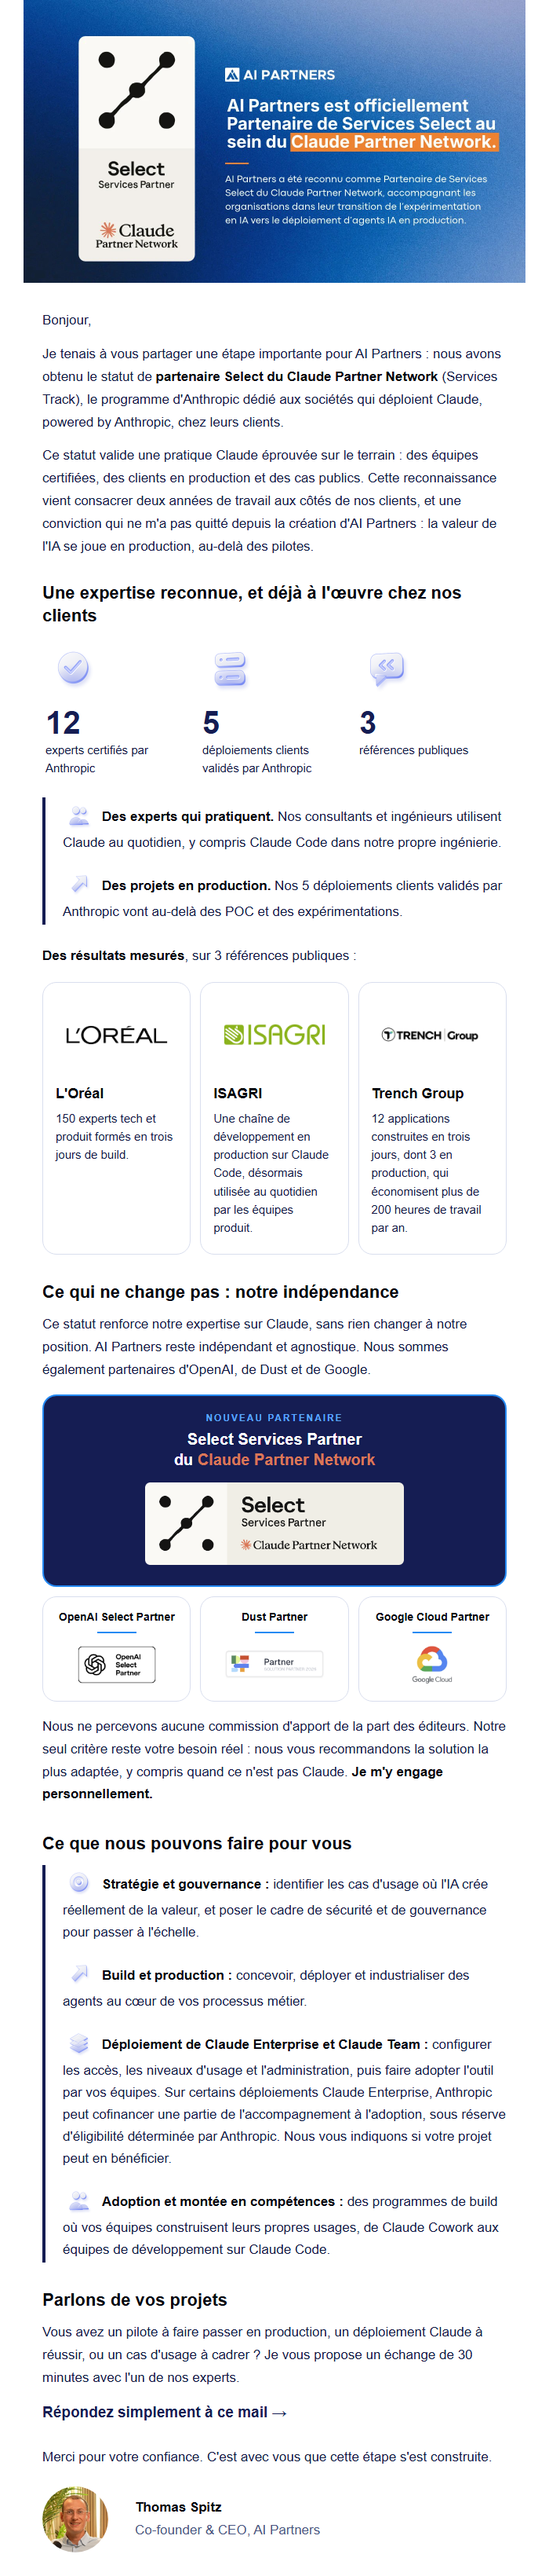
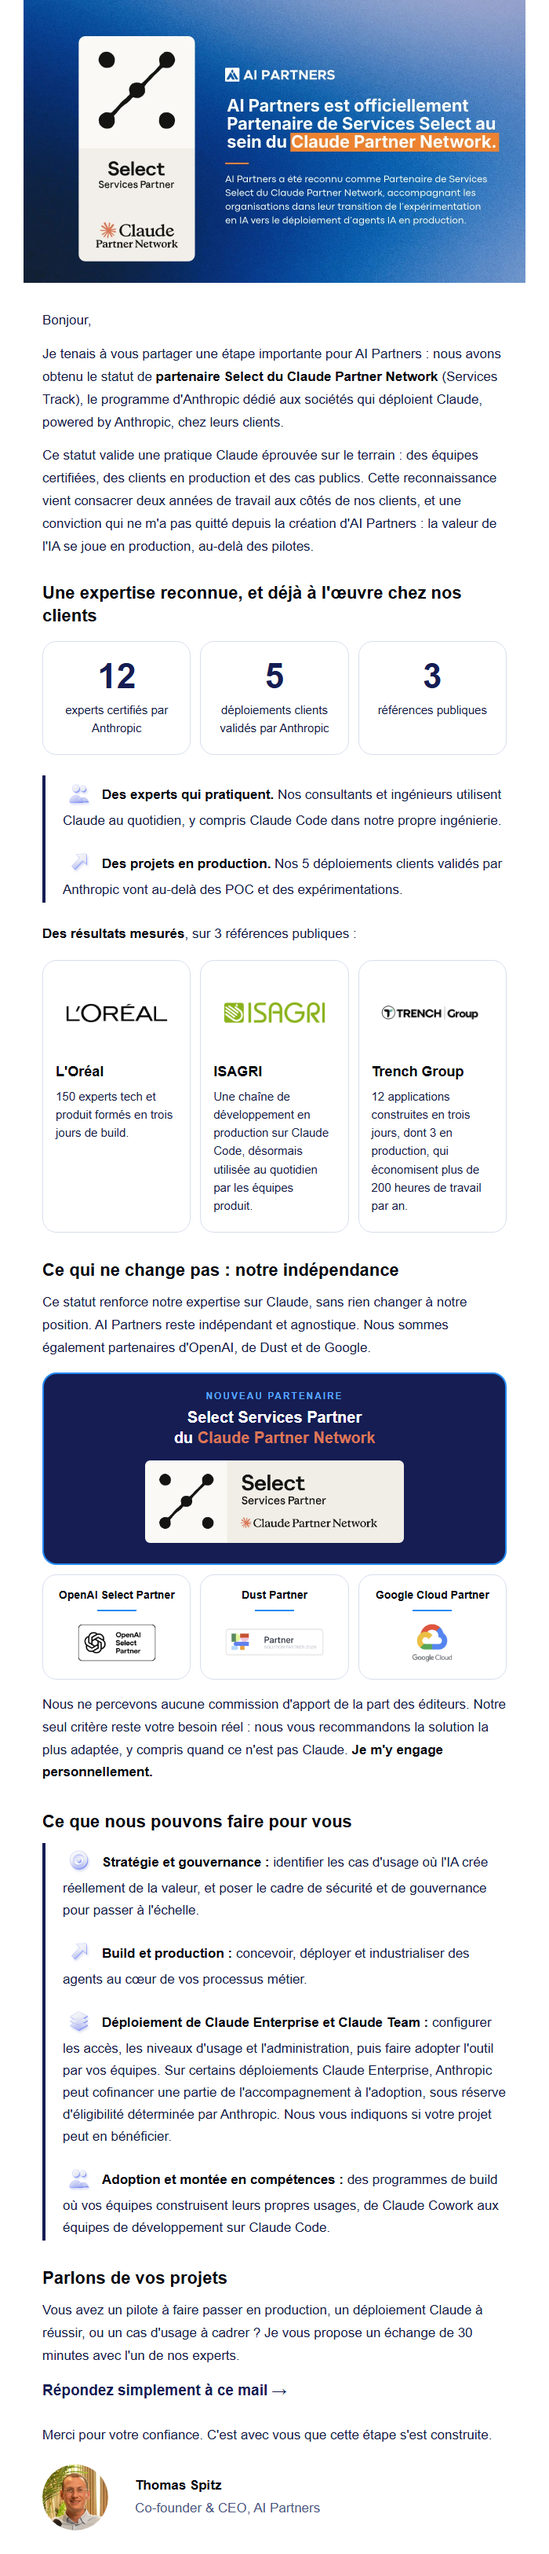
Mail d'annonce v2 : les 3 chiffres dans 3 encadrés, sans icône (retour d'Arthur 16/11)

Changed region(s): [[0.06, 0.0621, 0.93, 0.9942], [0.39, 0.0311, 0.9, 0.0932]]

diff --git a/PRESENTATIONS/2026-11_newsletter_anthropic_select/v2/email_hubspot_module.html b/PRESENTATIONS/2026-11_newsletter_anthropic_select/v2/email_hubspot_module.html
@@ -6,7 +6,7 @@
 <tr><td style="padding:0 4px 14px 4px;font-family:Helvetica, Arial, sans-serif;font-size:17px;line-height:1.7;color:#141B45">Je tenais à vous partager une étape importante pour AI Partners&nbsp;: nous avons obtenu le statut de <strong style="color:#05070F">partenaire Select du Claude Partner Network</strong> (Services Track), le programme d'Anthropic dédié aux sociétés qui déploient Claude, powered by Anthropic, chez leurs clients.</td></tr>
 <tr><td style="padding:0 4px 30px 4px;font-family:Helvetica, Arial, sans-serif;font-size:17px;line-height:1.7;color:#141B45">Ce statut valide une pratique Claude éprouvée sur le terrain&nbsp;: des équipes certifiées, des clients en production et des cas publics. Cette reconnaissance vient consacrer deux années de travail aux côtés de nos clients, et une conviction qui ne m'a pas quitté depuis la création d'AI Partners&nbsp;: la valeur de l'IA se joue en production, au-delà des pilotes.</td></tr>
 <tr><td style="padding:0px 4px 12px 4px"><h2 style="margin:0;font-family:Helvetica, Arial, sans-serif;font-size:22px;line-height:1.3;font-weight:bold;color:#05070F">Une expertise reconnue, et déjà à l'œuvre chez nos clients</h2></td></tr>
-<tr><td style="padding:6px 0 26px 0"><table role="presentation" width="100%" cellpadding="0" cellspacing="0"><tr><td valign="top" width="33%" style="width:33%;padding:0 8px"><img src="https://arthurw31.github.io/ai-partners-podcast-content-machine/newsletters/anthropic-select/v2/verre_badge-check_72.png" width="72" height="72" alt="" style="display:block;border:0;width:72px;height:72px"><div style="padding:12px 0 4px 0;font-family:Helvetica, Arial, sans-serif;font-size:40px;line-height:1;font-weight:bold;color:#151D53">12</div><div style="font-family:Helvetica, Arial, sans-serif;font-size:15px;line-height:1.5;color:#141B45">experts certifiés par Anthropic</div></td><td valign="top" width="33%" style="width:33%;padding:0 8px"><img src="https://arthurw31.github.io/ai-partners-podcast-content-machine/newsletters/anthropic-select/v2/verre_server_72.png" width="72" height="72" alt="" style="display:block;border:0;width:72px;height:72px"><div style="padding:12px 0 4px 0;font-family:Helvetica, Arial, sans-serif;font-size:40px;line-height:1;font-weight:bold;color:#151D53">5</div><div style="font-family:Helvetica, Arial, sans-serif;font-size:15px;line-height:1.5;color:#141B45">déploiements clients validés par Anthropic</div></td><td valign="top" width="33%" style="width:33%;padding:0 8px"><img src="https://arthurw31.github.io/ai-partners-podcast-content-machine/newsletters/anthropic-select/v2/verre_message-square-quote_72.png" width="72" height="72" alt="" style="display:block;border:0;width:72px;height:72px"><div style="padding:12px 0 4px 0;font-family:Helvetica, Arial, sans-serif;font-size:40px;line-height:1;font-weight:bold;color:#151D53">3</div><div style="font-family:Helvetica, Arial, sans-serif;font-size:15px;line-height:1.5;color:#141B45">références publiques</div></td></tr></table></td></tr>
+<tr><td style="padding:6px 4px 26px 4px"><table role="presentation" width="100%" cellpadding="0" cellspacing="0" style="border-collapse:separate"><tr><td valign="top" width="32%" align="center" bgcolor="#FFFFFF" style="width:32%;background-color:#FFFFFF;border:1px solid #D9DEEE;border-radius:18px;padding:22px 12px 22px 12px;text-align:center"><div style="font-family:Helvetica, Arial, sans-serif;font-size:44px;line-height:1;font-weight:bold;color:#151D53">12</div><div style="padding-top:10px;font-family:Helvetica, Arial, sans-serif;font-size:15px;line-height:1.5;color:#141B45">experts certifiés par Anthropic</div></td><td width="2%" style="width:2%;font-size:0;line-height:0">&nbsp;</td><td valign="top" width="32%" align="center" bgcolor="#FFFFFF" style="width:32%;background-color:#FFFFFF;border:1px solid #D9DEEE;border-radius:18px;padding:22px 12px 22px 12px;text-align:center"><div style="font-family:Helvetica, Arial, sans-serif;font-size:44px;line-height:1;font-weight:bold;color:#151D53">5</div><div style="padding-top:10px;font-family:Helvetica, Arial, sans-serif;font-size:15px;line-height:1.5;color:#141B45">déploiements clients validés par Anthropic</div></td><td width="2%" style="width:2%;font-size:0;line-height:0">&nbsp;</td><td valign="top" width="32%" align="center" bgcolor="#FFFFFF" style="width:32%;background-color:#FFFFFF;border:1px solid #D9DEEE;border-radius:18px;padding:22px 12px 22px 12px;text-align:center"><div style="font-family:Helvetica, Arial, sans-serif;font-size:44px;line-height:1;font-weight:bold;color:#151D53">3</div><div style="padding-top:10px;font-family:Helvetica, Arial, sans-serif;font-size:15px;line-height:1.5;color:#141B45">références publiques</div></td></tr></table></td></tr>
 <tr><td style="padding:0 4px 26px 4px"><table role="presentation" width="100%" cellpadding="0" cellspacing="0"><tr><td style="border-left:4px solid #151D53;padding:2px 0 2px 22px;font-family:Helvetica, Arial, sans-serif;font-size:17px;line-height:1.65;color:#141B45"><div style="padding:0 0 18px 0"><img src="https://arthurw31.github.io/ai-partners-podcast-content-machine/newsletters/anthropic-select/v2/verre_users_42.png" width="42" height="42" alt="" style="display:inline-block;vertical-align:-14px;border:0;width:42px;height:42px;margin-right:8px"><strong style="color:#05070F">Des experts qui pratiquent.</strong> Nos consultants et ingénieurs utilisent Claude au quotidien, y compris Claude Code dans notre propre ingénierie.</div><div style="padding:0"><img src="https://arthurw31.github.io/ai-partners-podcast-content-machine/newsletters/anthropic-select/v2/verre_rocket_42.png" width="42" height="42" alt="" style="display:inline-block;vertical-align:-14px;border:0;width:42px;height:42px;margin-right:8px"><strong style="color:#05070F">Des projets en production.</strong> Nos 5 déploiements clients validés par Anthropic vont au-delà des POC et des expérimentations.</div></td></tr></table></td></tr>
 <tr><td style="padding:0 4px 14px 4px;font-family:Helvetica, Arial, sans-serif;font-size:17px;line-height:1.7;color:#141B45"><strong style="color:#05070F">Des résultats mesurés</strong>, sur 3 références publiques&nbsp;:</td></tr>
 <tr><td style="padding:4px 4px 34px 4px"><table role="presentation" width="100%" cellpadding="0" cellspacing="0" style="border-collapse:separate"><tr><td valign="top" width="32%" bgcolor="#FFFFFF" style="width:32%;background-color:#FFFFFF;border:1px solid #D9DEEE;border-radius:18px;padding:18px 16px 22px 16px"><table role="presentation" width="100%" cellpadding="0" cellspacing="0"><tr><td height="96" align="center" valign="middle" style="height:96px"><img src="https://arthurw31.github.io/ai-partners-podcast-content-machine/newsletters/anthropic-select/v2/client_loreal.png" width="130" height="25" alt="L'Oréal" style="display:block;border:0;width:130px;height:25px;margin:0 auto"></td></tr></table><div style="padding:16px 0 8px 0;font-family:Helvetica, Arial, sans-serif;font-size:18px;line-height:1.25;font-weight:bold;color:#05070F">L'Oréal</div><div style="font-family:Helvetica, Arial, sans-serif;font-size:15px;line-height:1.55;color:#141B45">150 experts tech et produit formés en trois jours de build.</div></td><td width="2%" style="width:2%;font-size:0;line-height:0">&nbsp;</td><td valign="top" width="32%" bgcolor="#FFFFFF" style="width:32%;background-color:#FFFFFF;border:1px solid #D9DEEE;border-radius:18px;padding:18px 16px 22px 16px"><table role="presentation" width="100%" cellpadding="0" cellspacing="0"><tr><td height="96" align="center" valign="middle" style="height:96px"><img src="https://arthurw31.github.io/ai-partners-podcast-content-machine/newsletters/anthropic-select/v2/client_isagri.png" width="130" height="28" alt="ISAGRI" style="display:block;border:0;width:130px;height:28px;margin:0 auto"></td></tr></table><div style="padding:16px 0 8px 0;font-family:Helvetica, Arial, sans-serif;font-size:18px;line-height:1.25;font-weight:bold;color:#05070F">ISAGRI</div><div style="font-family:Helvetica, Arial, sans-serif;font-size:15px;line-height:1.55;color:#141B45">Une chaîne de développement en production sur Claude Code, désormais utilisée au quotidien par les équipes produit.</div></td><td width="2%" style="width:2%;font-size:0;line-height:0">&nbsp;</td><td valign="top" width="32%" bgcolor="#FFFFFF" style="width:32%;background-color:#FFFFFF;border:1px solid #D9DEEE;border-radius:18px;padding:18px 16px 22px 16px"><table role="presentation" width="100%" cellpadding="0" cellspacing="0"><tr><td height="96" align="center" valign="middle" style="height:96px"><img src="https://arthurw31.github.io/ai-partners-podcast-content-machine/newsletters/anthropic-select/v2/client_trench.png" width="130" height="18" alt="Trench Group" style="display:block;border:0;width:130px;height:18px;margin:0 auto"></td></tr></table><div style="padding:16px 0 8px 0;font-family:Helvetica, Arial, sans-serif;font-size:18px;line-height:1.25;font-weight:bold;color:#05070F">Trench Group</div><div style="font-family:Helvetica, Arial, sans-serif;font-size:15px;line-height:1.55;color:#141B45">12 applications construites en trois jours, dont 3 en production, qui économisent plus de 200 heures de travail par an.</div></td></tr></table></td></tr>

diff --git a/PRESENTATIONS/2026-11_newsletter_anthropic_select/v2/email.html b/PRESENTATIONS/2026-11_newsletter_anthropic_select/v2/email.html
@@ -10,7 +10,7 @@
 <tr><td style="padding:0 4px 14px 4px;font-family:Helvetica, Arial, sans-serif;font-size:17px;line-height:1.7;color:#141B45">Je tenais à vous partager une étape importante pour AI Partners&nbsp;: nous avons obtenu le statut de <strong style="color:#05070F">partenaire Select du Claude Partner Network</strong> (Services Track), le programme d'Anthropic dédié aux sociétés qui déploient Claude, powered by Anthropic, chez leurs clients.</td></tr>
 <tr><td style="padding:0 4px 30px 4px;font-family:Helvetica, Arial, sans-serif;font-size:17px;line-height:1.7;color:#141B45">Ce statut valide une pratique Claude éprouvée sur le terrain&nbsp;: des équipes certifiées, des clients en production et des cas publics. Cette reconnaissance vient consacrer deux années de travail aux côtés de nos clients, et une conviction qui ne m'a pas quitté depuis la création d'AI Partners&nbsp;: la valeur de l'IA se joue en production, au-delà des pilotes.</td></tr>
 <tr><td style="padding:0px 4px 12px 4px"><h2 style="margin:0;font-family:Helvetica, Arial, sans-serif;font-size:22px;line-height:1.3;font-weight:bold;color:#05070F">Une expertise reconnue, et déjà à l'œuvre chez nos clients</h2></td></tr>
-<tr><td style="padding:6px 0 26px 0"><table role="presentation" width="100%" cellpadding="0" cellspacing="0"><tr><td valign="top" width="33%" style="width:33%;padding:0 8px"><img src="images/verre_badge-check_72.png" width="72" height="72" alt="" style="display:block;border:0;width:72px;height:72px"><div style="padding:12px 0 4px 0;font-family:Helvetica, Arial, sans-serif;font-size:40px;line-height:1;font-weight:bold;color:#151D53">12</div><div style="font-family:Helvetica, Arial, sans-serif;font-size:15px;line-height:1.5;color:#141B45">experts certifiés par Anthropic</div></td><td valign="top" width="33%" style="width:33%;padding:0 8px"><img src="images/verre_server_72.png" width="72" height="72" alt="" style="display:block;border:0;width:72px;height:72px"><div style="padding:12px 0 4px 0;font-family:Helvetica, Arial, sans-serif;font-size:40px;line-height:1;font-weight:bold;color:#151D53">5</div><div style="font-family:Helvetica, Arial, sans-serif;font-size:15px;line-height:1.5;color:#141B45">déploiements clients validés par Anthropic</div></td><td valign="top" width="33%" style="width:33%;padding:0 8px"><img src="images/verre_message-square-quote_72.png" width="72" height="72" alt="" style="display:block;border:0;width:72px;height:72px"><div style="padding:12px 0 4px 0;font-family:Helvetica, Arial, sans-serif;font-size:40px;line-height:1;font-weight:bold;color:#151D53">3</div><div style="font-family:Helvetica, Arial, sans-serif;font-size:15px;line-height:1.5;color:#141B45">références publiques</div></td></tr></table></td></tr>
+<tr><td style="padding:6px 4px 26px 4px"><table role="presentation" width="100%" cellpadding="0" cellspacing="0" style="border-collapse:separate"><tr><td valign="top" width="32%" align="center" bgcolor="#FFFFFF" style="width:32%;background-color:#FFFFFF;border:1px solid #D9DEEE;border-radius:18px;padding:22px 12px 22px 12px;text-align:center"><div style="font-family:Helvetica, Arial, sans-serif;font-size:44px;line-height:1;font-weight:bold;color:#151D53">12</div><div style="padding-top:10px;font-family:Helvetica, Arial, sans-serif;font-size:15px;line-height:1.5;color:#141B45">experts certifiés par Anthropic</div></td><td width="2%" style="width:2%;font-size:0;line-height:0">&nbsp;</td><td valign="top" width="32%" align="center" bgcolor="#FFFFFF" style="width:32%;background-color:#FFFFFF;border:1px solid #D9DEEE;border-radius:18px;padding:22px 12px 22px 12px;text-align:center"><div style="font-family:Helvetica, Arial, sans-serif;font-size:44px;line-height:1;font-weight:bold;color:#151D53">5</div><div style="padding-top:10px;font-family:Helvetica, Arial, sans-serif;font-size:15px;line-height:1.5;color:#141B45">déploiements clients validés par Anthropic</div></td><td width="2%" style="width:2%;font-size:0;line-height:0">&nbsp;</td><td valign="top" width="32%" align="center" bgcolor="#FFFFFF" style="width:32%;background-color:#FFFFFF;border:1px solid #D9DEEE;border-radius:18px;padding:22px 12px 22px 12px;text-align:center"><div style="font-family:Helvetica, Arial, sans-serif;font-size:44px;line-height:1;font-weight:bold;color:#151D53">3</div><div style="padding-top:10px;font-family:Helvetica, Arial, sans-serif;font-size:15px;line-height:1.5;color:#141B45">références publiques</div></td></tr></table></td></tr>
 <tr><td style="padding:0 4px 26px 4px"><table role="presentation" width="100%" cellpadding="0" cellspacing="0"><tr><td style="border-left:4px solid #151D53;padding:2px 0 2px 22px;font-family:Helvetica, Arial, sans-serif;font-size:17px;line-height:1.65;color:#141B45"><div style="padding:0 0 18px 0"><img src="images/verre_users_42.png" width="42" height="42" alt="" style="display:inline-block;vertical-align:-14px;border:0;width:42px;height:42px;margin-right:8px"><strong style="color:#05070F">Des experts qui pratiquent.</strong> Nos consultants et ingénieurs utilisent Claude au quotidien, y compris Claude Code dans notre propre ingénierie.</div><div style="padding:0"><img src="images/verre_rocket_42.png" width="42" height="42" alt="" style="display:inline-block;vertical-align:-14px;border:0;width:42px;height:42px;margin-right:8px"><strong style="color:#05070F">Des projets en production.</strong> Nos 5 déploiements clients validés par Anthropic vont au-delà des POC et des expérimentations.</div></td></tr></table></td></tr>
 <tr><td style="padding:0 4px 14px 4px;font-family:Helvetica, Arial, sans-serif;font-size:17px;line-height:1.7;color:#141B45"><strong style="color:#05070F">Des résultats mesurés</strong>, sur 3 références publiques&nbsp;:</td></tr>
 <tr><td style="padding:4px 4px 34px 4px"><table role="presentation" width="100%" cellpadding="0" cellspacing="0" style="border-collapse:separate"><tr><td valign="top" width="32%" bgcolor="#FFFFFF" style="width:32%;background-color:#FFFFFF;border:1px solid #D9DEEE;border-radius:18px;padding:18px 16px 22px 16px"><table role="presentation" width="100%" cellpadding="0" cellspacing="0"><tr><td height="96" align="center" valign="middle" style="height:96px"><img src="images/client_loreal.png" width="130" height="25" alt="L'Oréal" style="display:block;border:0;width:130px;height:25px;margin:0 auto"></td></tr></table><div style="padding:16px 0 8px 0;font-family:Helvetica, Arial, sans-serif;font-size:18px;line-height:1.25;font-weight:bold;color:#05070F">L'Oréal</div><div style="font-family:Helvetica, Arial, sans-serif;font-size:15px;line-height:1.55;color:#141B45">150 experts tech et produit formés en trois jours de build.</div></td><td width="2%" style="width:2%;font-size:0;line-height:0">&nbsp;</td><td valign="top" width="32%" bgcolor="#FFFFFF" style="width:32%;background-color:#FFFFFF;border:1px solid #D9DEEE;border-radius:18px;padding:18px 16px 22px 16px"><table role="presentation" width="100%" cellpadding="0" cellspacing="0"><tr><td height="96" align="center" valign="middle" style="height:96px"><img src="images/client_isagri.png" width="130" height="28" alt="ISAGRI" style="display:block;border:0;width:130px;height:28px;margin:0 auto"></td></tr></table><div style="padding:16px 0 8px 0;font-family:Helvetica, Arial, sans-serif;font-size:18px;line-height:1.25;font-weight:bold;color:#05070F">ISAGRI</div><div style="font-family:Helvetica, Arial, sans-serif;font-size:15px;line-height:1.55;color:#141B45">Une chaîne de développement en production sur Claude Code, désormais utilisée au quotidien par les équipes produit.</div></td><td width="2%" style="width:2%;font-size:0;line-height:0">&nbsp;</td><td valign="top" width="32%" bgcolor="#FFFFFF" style="width:32%;background-color:#FFFFFF;border:1px solid #D9DEEE;border-radius:18px;padding:18px 16px 22px 16px"><table role="presentation" width="100%" cellpadding="0" cellspacing="0"><tr><td height="96" align="center" valign="middle" style="height:96px"><img src="images/client_trench.png" width="130" height="18" alt="Trench Group" style="display:block;border:0;width:130px;height:18px;margin:0 auto"></td></tr></table><div style="padding:16px 0 8px 0;font-family:Helvetica, Arial, sans-serif;font-size:18px;line-height:1.25;font-weight:bold;color:#05070F">Trench Group</div><div style="font-family:Helvetica, Arial, sans-serif;font-size:15px;line-height:1.55;color:#141B45">12 applications construites en trois jours, dont 3 en production, qui économisent plus de 200 heures de travail par an.</div></td></tr></table></td></tr>

diff --git a/PRESENTATIONS/2026-11_newsletter_anthropic_select/v2/build_v2.py b/PRESENTATIONS/2026-11_newsletter_anthropic_select/v2/build_v2.py
@@ -83,17 +83,16 @@ def clients() -> str:
 
 
 def stats() -> str:
-    """Les 3 chiffres, dans le style des 3 colonnes du mail de référence : icône en verre, grand chiffre, libellé."""
-    data = [("verre_badge-check_72.png", "12", "experts certifiés par Anthropic"),
-            ("verre_server_72.png", "5", "déploiements clients validés par Anthropic"),
-            ("verre_message-square-quote_72.png", "3", "références publiques")]
-    cells = "".join(
-        f'<td valign="top" width="33%" style="width:33%;padding:0 8px"><img src="images/{i}" width="72" height="72" alt="" '
-        f'style="display:block;border:0;width:72px;height:72px"><div style="padding:12px 0 4px 0;{F};font-size:40px;line-height:1;'
-        f'font-weight:bold;color:{NAVY}">{n}</div><div style="{F};font-size:15px;line-height:1.5;color:{TEXT}">{t}</div></td>'
-        for i, n, t in data)
-    return (f'<tr><td style="padding:6px 0 26px 0"><table role="presentation" width="100%" cellpadding="0" cellspacing="0"><tr>{cells}'
-            f'</tr></table></td></tr>')
+    """Les 3 chiffres dans 3 encadrés côte à côte, comme les cartes clients, sans icône (Arthur, 16/11/2026)."""
+    data = [("12", "experts certifiés par Anthropic"), ("5", "déploiements clients validés par Anthropic"),
+            ("3", "références publiques")]
+    cells = GAP.join(
+        f'<td valign="top" width="32%" align="center" bgcolor="#FFFFFF" style="width:32%;background-color:#FFFFFF;border:1px solid {BORDER};'
+        f'border-radius:18px;padding:22px 12px 22px 12px;text-align:center"><div style="{F};font-size:44px;line-height:1;font-weight:bold;'
+        f'color:{NAVY}">{n}</div><div style="padding-top:10px;{F};font-size:15px;line-height:1.5;color:{TEXT}">{t}</div></td>'
+        for n, t in data)
+    return (f'<tr><td style="padding:6px 4px 26px 4px"><table role="presentation" width="100%" cellpadding="0" cellspacing="0" '
+            f'style="border-collapse:separate"><tr>{cells}</tr></table></td></tr>')
 
 
 def bar_list(items: list) -> str:
